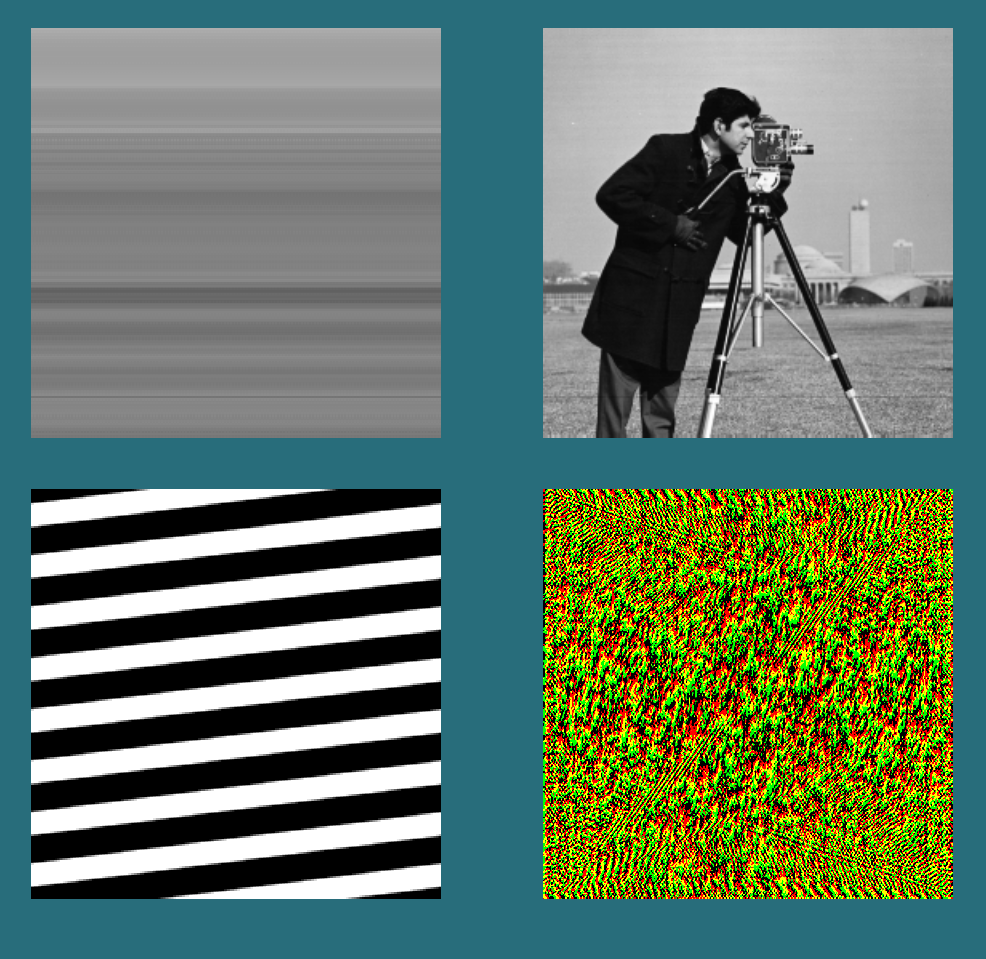
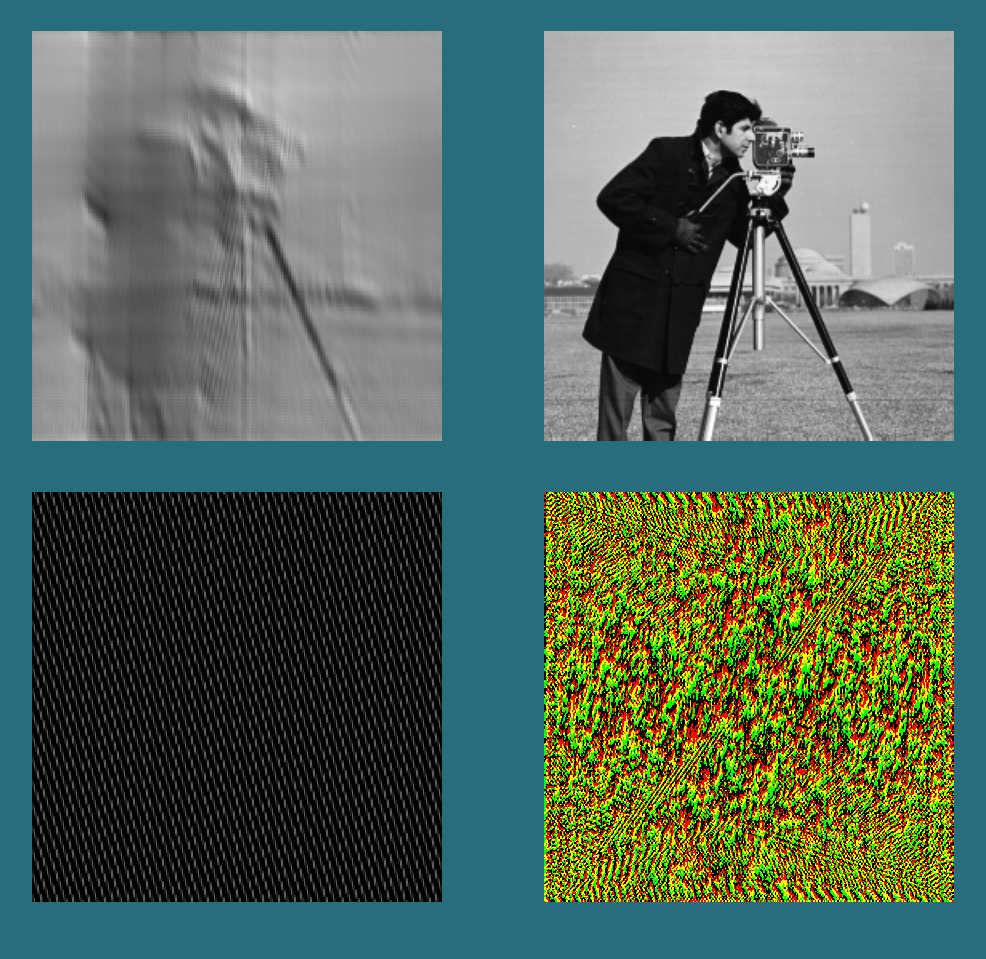
bug images

diff --git a/fft_compute_horizontal.cs b/fft_compute_horizontal.cs
@@ -225,7 +225,7 @@ used to be able to mag a thread_id to the right element in the array
 
             real_imag_buffer[e] = vec2(v.x, v.y);
             real_imag_buffer[o] = vec2(v_1.x, v_1.y);
-
+            synchronize();
             input_b[o] = real_imag_buffer[o];
             input_b[e] = real_imag_buffer[e];
 
@@ -233,7 +233,7 @@ used to be able to mag a thread_id to the right element in the array
 
         k *= 2;
 
-        synchronize();
+   //     synchronize();
 
    }
 

diff --git a/README.md b/README.md
@@ -1,58 +1,140 @@
 <h1>2D Parallel Fast Fourier Transform</h1>
-<p style="text-align: justify;">
+
+<img src="visualized_2d_frequecies/program_window.png" align="left" width="280" style="margin-right: 10px;"/>
 
 This is a naive implementation of the parallel 2D fft.
-Takes in an image that has a power of 2 as the hight and width. When run the program displays the separate frequencies being added up in the  
+Input image height and width must be power of 2. When running the program a window pops up as in the image on the left. <br>
+TOP LEFT : animated assembley of the image from individual frequencies. <br>
+TOP RIGHT  : the output of IFFT <br>
+BOTTOM LEFT : <ins>visualizaton</ins> individual 2D frequencies  <br>
+BOTTOM RIGHT : the output of fft as texture which contains the real part in the red channel and imaginary part in the green channel  <br>
 
-</p>
-<img src="visualized_2d_frequecies/image_fft_ifft_image.png" style="float: left; margin-right: 15px;">
-<p style="text-align: justify;">
 
-Above one the left is the original input image, in the middle is the an image I used to store the complex outputs of the FFT in to later use for the IFFT result of which is the image on the right.
-However the FFT output can be interpreted in terms of amplitude and phase and those value stored in a texture or image as below (phase is image in the middle, amplitude is the rightmost image).
+<br><br><br><br><br><br>
 
-</p>
+<img src="visualized_2d_frequecies/image_fft_ifft_image.png" style="float: left; margin-right: 15px; margin-bottom: 10px; margin-top: 100px;" />
+
+
+Above one the left is the original input image, in the middle is an image I used to store the complex outputs of the FFT to later use for the IFFT.
+However the FFT output can also be interpreted in terms of amplitude and phase and those values stored in a texture or image as below (phase is image in the middle, amplitude is the rightmost image).
+
+
 <img src="visualized_2d_frequecies/FFT_2D_IMG_TO_MAGNITUDE_PHASE.png" style="float: left; margin-right: 15px;">
 
 <h2 style="clear: both">Reading the input image</h2>
-<p style="text-align: justify;">
-At this point the program takes in black and white RGBA image as a texture. Compute shader performs parallel version of 1D fft on each row of the image, at each dispatch there are as many workgroups as there are rows, while each work group has number of sample 
-</p>
-<h2 style="clear: both">Wrapped Image Example</h2>
 
-<p style="text-align: justify;">
-This text will wrap around the image on the right side. GitHub still supports
-the legacy <code>align="left"</code> attribute for images, which is actually
-the most consistent way to achieve this effect in a README.
+ At this point the program takes in black and white RGBA image as a texture.
+ The GLSL language does not support recurstion so the option to do the regular Cooley-Tookey FFT is definitely off the table.
+ In the original algorithm the levels of recurstion rearranged the elements in such a way that at each superstep the smaller FFTs had evenly spaced samples while mainting the odd and even index based separation.
+ This can also be accomplished by taking each element and bit-reversing its index and placing it at the position of the input array which is indicated by the new bit reversed index. This way the iterative version of the    algorithm can be implemented for parallelism.
 
-You can keep writing more text here and it will continue flowing around the image,
-similar to how word processors handle text wrapping.
-This text will wrap around the image on the right side. GitHub still supports
-the legacy <code>align="left"</code> attribute for images, which is actually
-the most consistent way to achieve this effect in a README.
+```glsl
+      uint rev(uint n, uint num_bits){
 
-You can keep writing more text here and it will continue flowing around the image,
-similar to how word processors handle text wrapping.
-This text will wrap around the image on the right side. GitHub still supports
-the legacy <code>align="left"</code> attribute for images, which is actually
-the most consistent way to achieve this effect in a README.
+      uint res = 0;
+      uint i = 0;
 
-You can keep writing more text here and it will continue flowing around the image,
-similar to how word processors handle text wrapping.
-This text will wrap around the image on the right side. GitHub still supports
-the legacy <code>align="left"</code> attribute for images, which is actually
-the most consistent way to achieve this effect in a README.
+      while(i <= num_bits - 1){    
+          res <<= 1;
+          if((n & 1) == 1){ 
+              res |= 1;
+          }
+          n >>= 1;
+          i++;
 
-You can keep writing more text here and it will continue flowing around the image,
-similar to how word processors handle text wrapping.
-This text will wrap around the image on the right side. GitHub still supports
-the legacy <code>align="left"</code> attribute for images, which is actually
-the most consistent way to achieve this effect in a README.
+      }
 
-You can keep writing more text here and it will continue flowing around the image,
-similar to how word processors handle text wrapping.
-</p>
+        return res;
+    }
+```
 
-<p style="text-align: justify;">
-Once the text is long enough, it will naturally clear below the image.
-</p>
+After the rev(uint, uint) is used to reorder the elements of the input row the fft() function can be called<br>
+
+## Parallel execution
+
+If, for example, the number of threads : X_INVOCATIONS = 128 for a 256 image then each thread is responsible for 2 elements or 1 butterfly.
+
+```glsl
+layout(local_size_x = X_INVOCATIONS, local_size_y = 1, local_size_z = 1) in;
+```
+However if X_INVOCATIONS < 256/2 then one thread is responsible for more than one butterfly. Because the maximum amount of butterfies is num_samples / 2 then depending on the number of threads per workgroup
+num_butterflies_per_thread = ( num_samples / 2 ) / total_num_threads_per_work_group
+The num_lvls is also the amount of supersteps, at each superstep the number of samples for a given sub-FFT 2x larger then the last (here it is k which starts at 2 as the smallest smaple size of an FFT).
+
+```glsl
+
+void fft(){
+
+    ivec2 texC_g = ivec2(gl_GlobalInvocationID.xy);
+    uint t_id = texC_g.x;
+    uint k = 2;
+    uint num_lvls = uint(log2(num_samples_h));
+    uint bttrfls_per_thrd = (num_samples_h / 2) / gl_WorkGroupSize.x;
+    ...
+```
+
+As the the FFT advances trough the supersteps each thread processes its butterflies iteratively. 
+
+```glsl
+...
+ for (uint lvl = 0; lvl < num_lvls; lvl++){
+
+        vec4 v = vec4(0.0);
+        vec4 v_1 = vec4(0.0);
+
+        for (int b = 0; b < bttrfls_per_thrd; b++){
+...
+```
+
+## Correction of the phase by the twiddle factor
+
+What makes the FFT so efficient is the reuse of lower frequency outputs from sub-FFTs to compute the higer ones. FFT first devides the smaple set into smaller subsets and performs the FFT algorithm on them as if they were independant sets. The problem with treating sample subsets as independant is that this creates as phase shift which has to be corrected, curtesy of the twiddle factors.
+
+```glsl
+...
+float angle = 2.0 * M_PI * float((t_id * bttrfls_per_thrd + b) % (k / 2)) / float(k);
+
+ vec2 twiddle = vec2(cos(angle), forward * sin(angle));
+
+ uint block = (t_id * bttrfls_per_thrd + b) / (k / 2);
+uint offset = (t_id * bttrfls_per_thrd + b) % (k / 2);
+
+uint e = block * k + offset;
+uint o = e + (k / 2);
+vec2 even = input_b[e];
+vec2 odd = input_b[o];
+...
+```
+
+The same twiddle factor can negated and reused when computing a frequency that is larger than k/2. Each butterfly computes a frequency thas is less than k/2 and then another one that is by k/2 larger.
+The FFT computes the values, stores them in a shared array. Then synchronization happens in order to make sure than none of the threads advance to the next superstep before all of them are finished.
+
+```glsl
+            vec2 freq_0 = even + mult(odd, twiddle);
+            vec2 freq_1 = even - mult(odd, twiddle);
+
+            v = vec4(freq_0.x, freq_0.y, 0.0, 1.0);
+            v_1 = vec4(freq_1.x, freq_1.y, 0.0, 1.0);
+
+            real_imag_buffer[e] = vec2(v.x, v.y);
+            real_imag_buffer[o] = vec2(v_1.x, v_1.y);
+
+            synchronize();
+          
+            input_b[o] = real_imag_buffer[o];
+            input_b[e] = real_imag_buffer[e];
+
+        }
+
+        k *= 2;
+
+  }
+```
+
+After the first 2D FFT stage on the image is performed the output is transposed to do the same process on the columns, then transposed again (optional, but the image will be rotated by 90 deg when doign IFFT). 
+The full compute shader is [fft_compute_horizontal.cs](https://github.com/tomsKalnins1/parallel-FFT_2D-with-OpenGl/blob/main/fft_compute_horizontal.cs) .
+
+
+## The bugs I encountered
+
+
